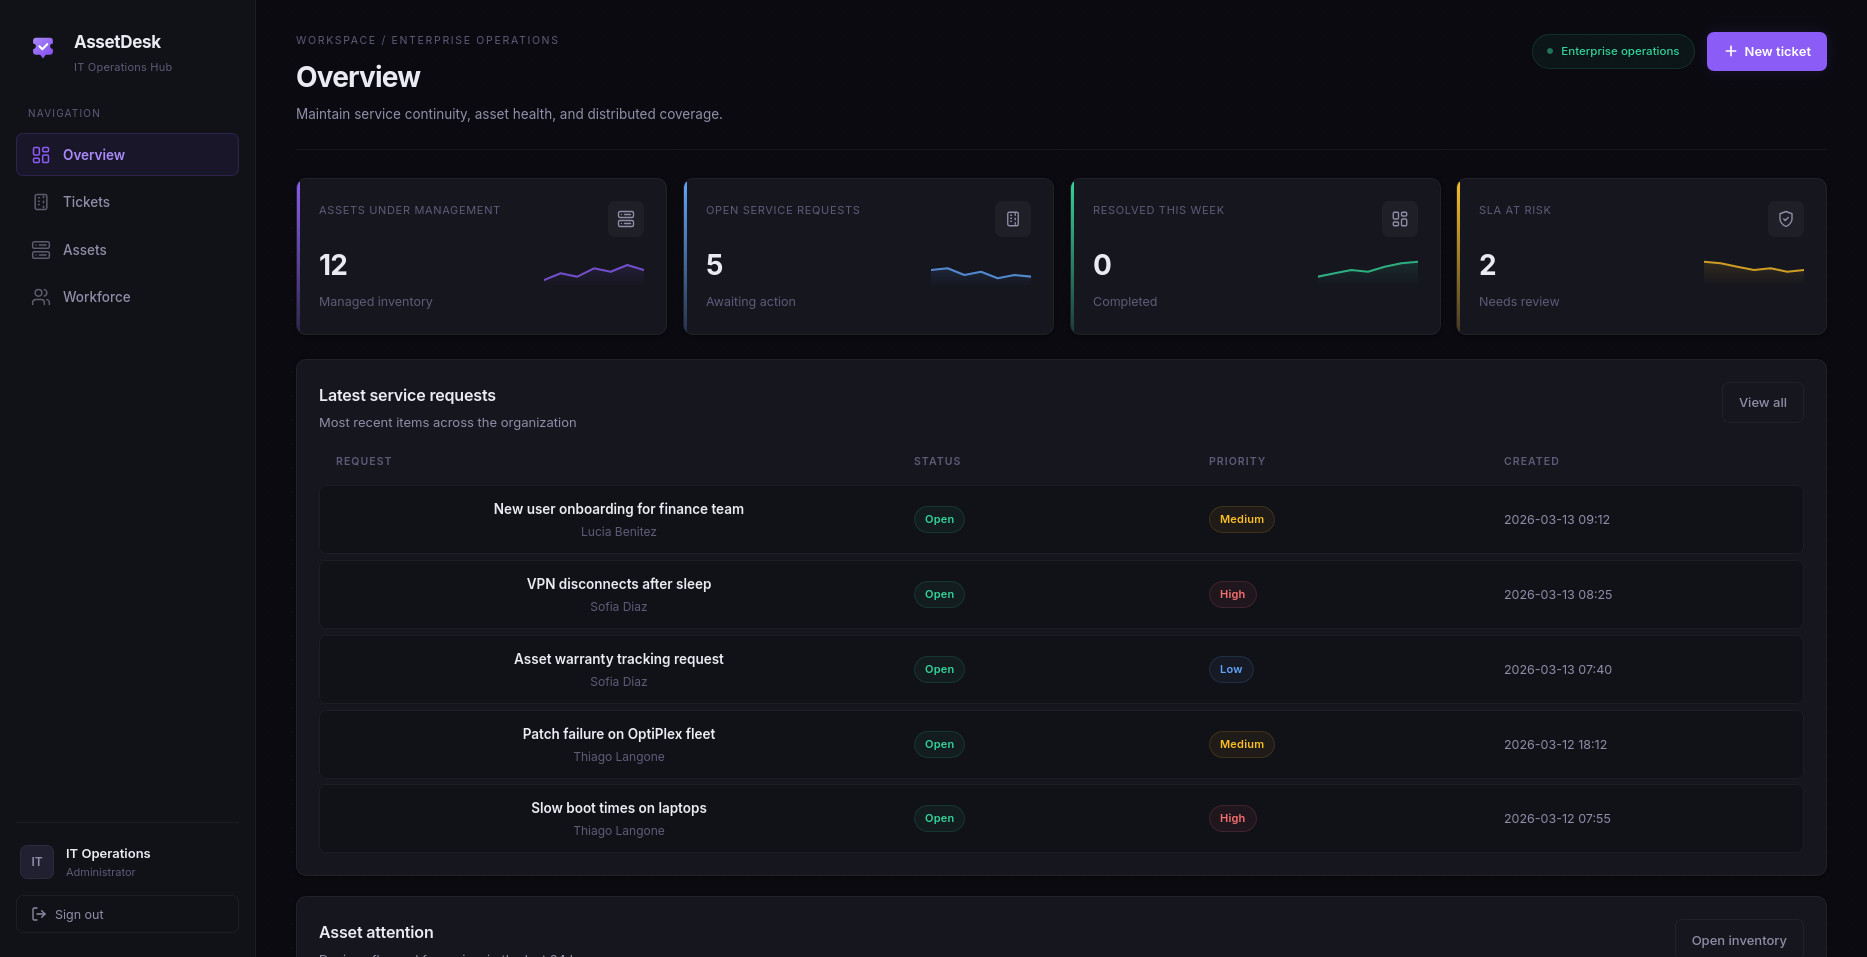
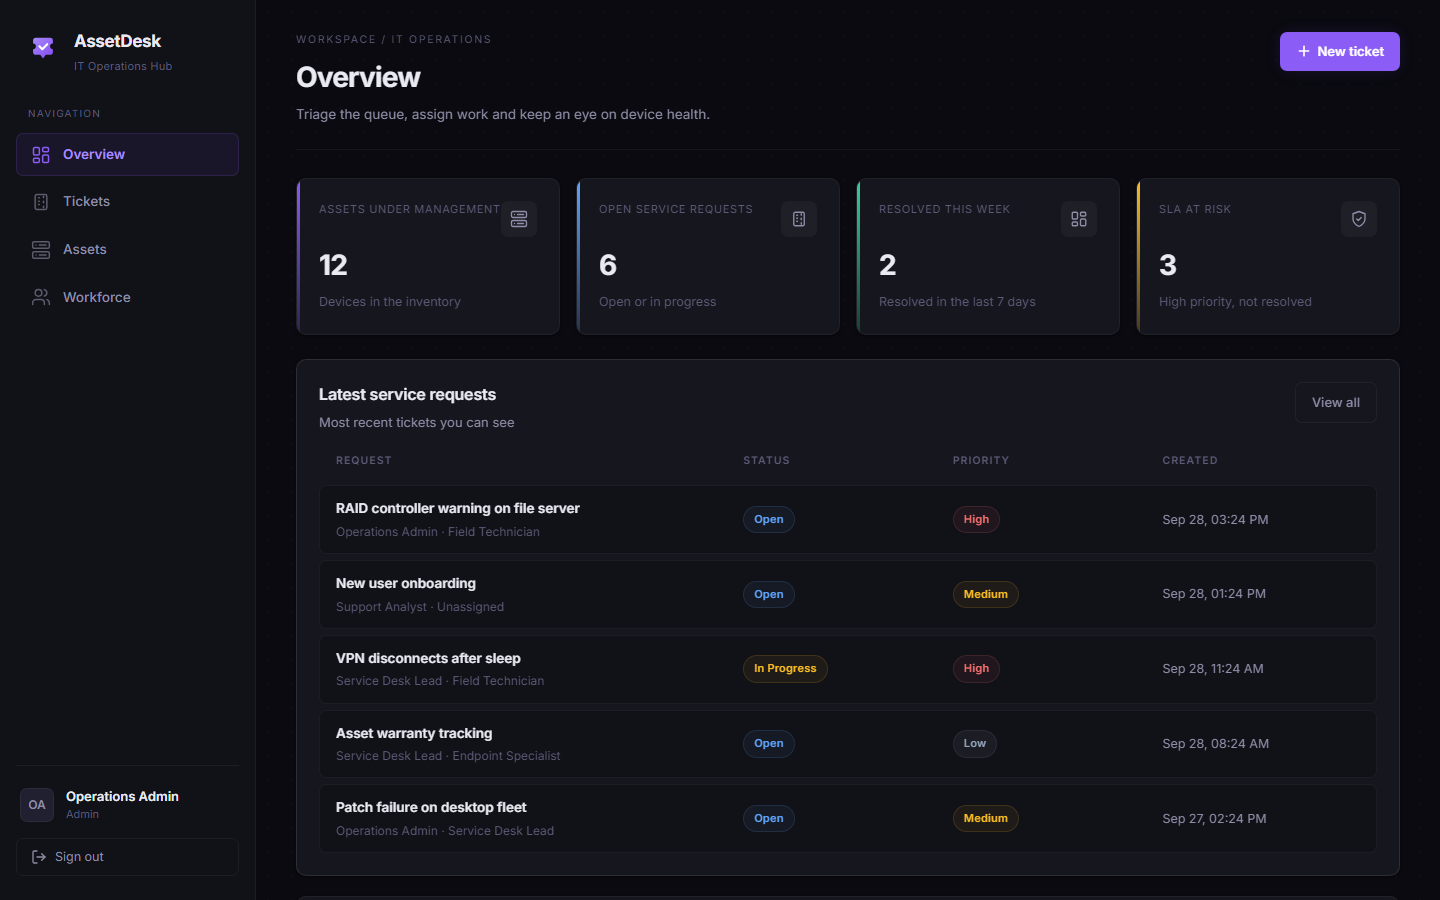
docs: rewrite README for RBAC and ticket lifecycle, retake screenshots
Screenshots are retaken at 1440x900 from the current app running
locally against the seed data (the old ones showed names and tickets
that are not in the seed). The README adds demo credentials per role,
a permissions table, the ticket state machine, architecture, an API
summary, test coverage, security notes and limitations, and no longer
says the API ignores roles. Adds SECURITY.md.

diff --git a/README.md b/README.md
@@ -2,42 +2,104 @@
 
 [![CI](https://github.com/JimmyAlter/AssetDesk/actions/workflows/ci.yml/badge.svg)](https://github.com/JimmyAlter/AssetDesk/actions/workflows/ci.yml)
 
-A small IT service desk and asset inventory: ticket intake, an asset list with health states, a people directory and a summary dashboard, over a JWT-authenticated Express API.
+A small IT service desk and asset inventory. People raise tickets, managers assign them, technicians move them from open to resolved, and a dashboard summarises the queue and device health. React frontend, Express + SQLite API, JWT auth with role-based access enforced on the server.
 
-**Live demo:** [assetdesk-demo.vercel.app](https://assetdesk-demo.vercel.app). Sign in with `demo@assetdesk.dev` / `demo123`. The API runs on Render's free tier, so the first request after a while idle can take up to a minute.
+**Live demo:** [assetdesk-demo.vercel.app](https://assetdesk-demo.vercel.app). The API runs on Render's free tier, so the first request after it has been idle can take up to a minute.
 
-| Overview | Workforce |
+| Role | Email | Password |
+|---|---|---|
+| Admin | `demo@assetdesk.dev` | `demo123` |
+| Support Lead | `lead@assetdesk.dev` | `demo123` |
+| Field Tech | `field@assetdesk.dev` | `demo123` |
+
+The sign-in page has one-click buttons for each role. Demo data is shared by everyone using the demo and resets to the seed whenever the API restarts or is redeployed.
+
+| Overview | Ticket detail |
 |---|---|
-| ![Overview](docs/screenshots/overview.png) | ![Workforce](docs/screenshots/workforce.png) |
+| ![Overview dashboard](docs/screenshots/overview.png) | ![Ticket detail with status actions and assignment](docs/screenshots/ticket-detail.png) |
+| **Workforce (managers only)** | **Sign in** |
+| ![People directory](docs/screenshots/workforce.png) | ![Sign-in page with demo roles](docs/screenshots/login.png) |
 
-## Scope
+Screenshots are taken from the current code running locally against the seed data.
 
-This is a deliberately small build that shares its foundation with [CommerceSuite](https://github.com/JimmyAlter/CommerceSuite).
+## Features
 
-**What it does**
+- Email and password sign-in (bcrypt hashes, 8-hour HS256 JWT, rate-limited login)
+- Tickets with title, priority and description; the requester is taken from the token
+- Ticket lifecycle `open → in_progress → resolved`, with "back to queue" and reopen, and a `resolved_at` timestamp
+- Assignment to any user, by Admins and Support Leads
+- Asset inventory with health states, and a people directory
+- Dashboard counts: assets, open tickets (open or in progress), tickets resolved in the last 7 days, and unresolved high-priority tickets
+- Search, filters and pagination on every list
 
-- Email and password login (bcrypt hashes, 8-hour JWT, rate-limited login)
-- Create tickets with a title, priority (low, medium or high) and description. The requester is taken from the token, and the input is validated on the server
-- List tickets, assets and people, with search, filters and pagination in the UI
-- Dashboard counts: assets, open tickets, tickets resolved in the last 7 days, and open high-priority tickets
+## Roles and permissions
 
-**What it does not do (yet)**
+Roles are checked by the API on every request (`requireRole` middleware and per-ticket checks in `backend/src/server.js`). The UI hides controls a role can't use, but it is not what enforces the rules. The user's role is re-read from the database on each request, so a role change applies straight away.
 
-- Role-based authorization. Users have a role, but the API does not check it; every authenticated user can read everything
-- Ticket assignment and status transitions. New tickets are always `open` and `Unassigned`, and there are no update endpoints
-- Status history or audit trail
+| Action | Admin | Support Lead | Field Tech |
+|---|:---:|:---:|:---:|
+| View dashboard counts (organisation-wide) | ✓ | ✓ | ✓ |
+| View assets | ✓ | ✓ | ✓ |
+| Create a ticket | ✓ | ✓ | ✓ |
+| List tickets | all | all | assigned to them or raised by them |
+| Start, resolve or return a ticket to the queue | any ticket | any ticket | only tickets assigned to them |
+| Reopen a resolved ticket | ✓ | ✓ | ✗ (403) |
+| Assign or unassign a ticket | ✓ | ✓ | ✗ (403) |
+| View the people directory (`GET /api/users`) | ✓ | ✓ | ✗ (403) |
 
-## Stack
+Field Techs get `404` for tickets they cannot see, and `403` when they try to change a ticket they can see but is not assigned to them.
 
-React 19 and Vite (frontend) · Node.js, Express and better-sqlite3 (API) · JWT auth · helmet and express-rate-limit
+### Ticket states
 
 ```text
-React (Vercel) ──► Express API (Render) ──► SQLite
+open ──start──► in_progress ──resolve──► resolved
+  ▲                 │                        │
+  └──back to queue──┘                        │
+  ▲                                          │
+  └──────────── reopen (managers only) ──────┘
 ```
 
-The frontend also has a browser-only mock API (`frontend/src/mockApi.js`). It is used when `VITE_API_URL` is not set and the app runs on `*.vercel.app` or with `VITE_DEMO_MODE=true`. A badge in the top bar shows which mode is active.
+Any other transition returns `409 Conflict`. Resolving sets `resolved_at`; reopening clears it.
+
+## Architecture
+
+```text
+React 19 + Vite (Vercel)  ──HTTPS/JSON──►  Express API (Render)  ──►  SQLite (better-sqlite3)
+```
+
+```text
+backend/
+  src/server.js    Express app: auth, requireRole, routes, error handling
+  src/roles.js     Role names and the ticket state machine
+  src/db.js        Schema, migration from the old schema, demo seed
+  test/            node:test suites (API, RBAC, lifecycle, hardening, migration)
+frontend/
+  src/api.js       fetch wrapper (auth header, error messages)
+  src/permissions.js  UI mirror of the role rules
+  src/components/  Dashboard, Tickets, TicketDetail, Assets, Users, Login
+```
+
+Tickets store `requester_id` and `assignee_id` as user ids. Databases created by earlier versions (names stored as text) are migrated in place on startup.
+
+## API
+
+All routes except health and login need `Authorization: Bearer <token>`. Errors are JSON: `{ "error": "message" }`.
+
+| Method | Path | Who | Notes |
+|---|---|---|---|
+| GET | `/api/health` | public | `{ status: "ok" }` |
+| POST | `/api/auth/login` | public | `{ email, password }` → `{ token, user }`; 20 attempts/min per client |
+| GET | `/api/me` | any role | the signed-in user |
+| GET | `/api/summary` | any role | dashboard counts |
+| GET | `/api/tickets` | any role | scoped for Field Techs, see above |
+| POST | `/api/tickets` | any role | `{ title, priority?, description? }` |
+| PATCH | `/api/tickets/:id` | see table | `{ status?, assigneeId? }` (`assigneeId` is a user id or `null`) |
+| GET | `/api/assets` | any role | |
+| GET | `/api/users` | Admin, Support Lead | never includes password hashes |
 
 ## Running it locally
+
+Requires Node.js 20 or later.
 
 ```bash
 cd backend
@@ -50,33 +112,53 @@ npm ci
 npm run dev          # http://localhost:5173
 ```
 
-## Tests
+The frontend calls `VITE_API_URL`, defaulting to `http://localhost:4000`. Backend settings are documented in [`backend/.env.example`](backend/.env.example). To start from a clean seed, delete `backend/data/assetdesk.db`.
+
+## Tests and CI
 
 ```bash
-cd backend && npm test
+cd backend && npm test      # 38 node:test cases against a throwaway SQLite file
+cd frontend && npm test     # 9 Vitest cases
 ```
 
-The node:test suite starts the API against a fresh SQLite file and checks the following:
+The backend suites cover:
 
-- every data route requires a valid token
-- login errors don't reveal whether the email exists
-- password hashes never appear in a response
-- the requester is taken from the token
-- ticket input is validated on the server
-- SQL-looking input is stored as plain text
+- every data route returning 401 without a valid bearer token (missing, wrong scheme, forged, wrong algorithm, `alg: none`, deleted user)
+- 403 for every role-gated action, and Field Techs only seeing their own tickets
+- the ticket state machine, `resolved_at` and the "resolved this week" count
+- login input type checks and identical errors for unknown email and wrong password
+- JSON 404, malformed JSON (400), oversized bodies (413), generic 500s, CORS rejection (403) and localhost only outside production
+- per-client rate limiting behind a trusted proxy, and that `X-Forwarded-For` is ignored without one
+- migration of databases created with the old schema
 
-CI runs these tests on Node 20 and 22, plus the frontend lint and build.
+The frontend tests cover the API client (including a regression test for the header merge bug that broke ticket creation) and the permission helpers.
+
+GitHub Actions runs the backend tests on Node 20 and 22, and the frontend lint, tests and build, on every push and pull request. Dependabot checks npm and Actions dependencies weekly.
 
 ## Security notes
 
-- All queries are prepared statements with `?` placeholders; no SQL is built from strings.
-- `helmet` sets the default security headers. JSON bodies are capped at 200 KB, and login is limited to 20 attempts per minute.
-- With `NODE_ENV=production`, the server exits at startup if `JWT_SECRET` is missing or still the development default.
-- CORS allows `CORS_ORIGIN` and localhost origins.
+- Passwords are bcrypt hashes. Login compares against a dummy hash when the email is unknown, and returns the same error either way.
+- JWTs are signed and verified with HS256 only, and must be sent with the `Bearer` scheme. With `NODE_ENV=production` the server exits at startup if `JWT_SECRET` is missing or still the development default.
+- All queries are prepared statements with `?` placeholders.
+- `helmet` sets security headers. JSON bodies are capped at 200 KB.
+- CORS allows the origins in `CORS_ORIGIN`; `http://localhost` and `http://127.0.0.1` are allowed only outside production.
+- `TRUST_PROXY` (default `1` in production) makes the login rate limit apply per client behind Render's proxy.
+- Unexpected errors return `{ "error": "Internal server error" }` without stack traces.
+
+See [SECURITY.md](SECURITY.md) for how to report a vulnerability.
 
 ## Deployment
 
-`render.yaml` defines the API service and `DB_PATH`. The frontend is a static Vite build on Vercel with `VITE_API_URL` pointing at the API. SQLite fits a single small instance like this demo. For anything with real traffic or more than one instance, move to PostgreSQL. The data layer lives in `backend/src/db.js`.
+`render.yaml` defines the API as a Render free web service. Free services have no persistent disk, so the SQLite file lives on the instance's ephemeral filesystem: it is created and seeded on startup and **reset on every redeploy or restart**, which is fine for a demo. The frontend is a static Vite build on Vercel with `VITE_API_URL` pointing at the API.
+
+## Limitations
+
+- SQLite on one instance. For real traffic or more than one instance, move to PostgreSQL; the data layer is in `backend/src/db.js`.
+- No user management UI or self-service sign-up; users come from the seed.
+- No ticket comments, status history or audit trail.
+- The JWT lives in `localStorage`, and there is no refresh token or server-side revocation list (a deleted user's token stops working because the user is looked up on every request).
+- The rate limiter's store is in memory, so limits reset on restart and are not shared between instances.
+- No end-to-end tests in CI; the UI flows were checked manually with Playwright against a local build.
 
 ## License
 

diff --git a/SECURITY.md b/SECURITY.md
@@ -1,0 +1,17 @@
+# Security policy
+
+AssetDesk is a portfolio project. The live demo holds only seeded, fictional data and resets whenever the API restarts. Please don't use it to store anything real.
+
+## Reporting a vulnerability
+
+Please don't put vulnerability details in a public issue. Contact the maintainer through the details on the [GitHub profile](https://github.com/JimmyAlter), or open an issue that only asks for a private contact. Include the steps to reproduce and the impact you see. I'll acknowledge the report as soon as I can and credit you in the fix if you'd like.
+
+## Scope
+
+In scope: the code in this repository (the Express API in `backend/` and the React app in `frontend/`).
+
+Out of scope: denial of service against the free-tier demo, findings that need a compromised machine or browser, and issues in third-party services (Render, Vercel, GitHub).
+
+## Supported versions
+
+Only the latest commit on `main` is maintained.
